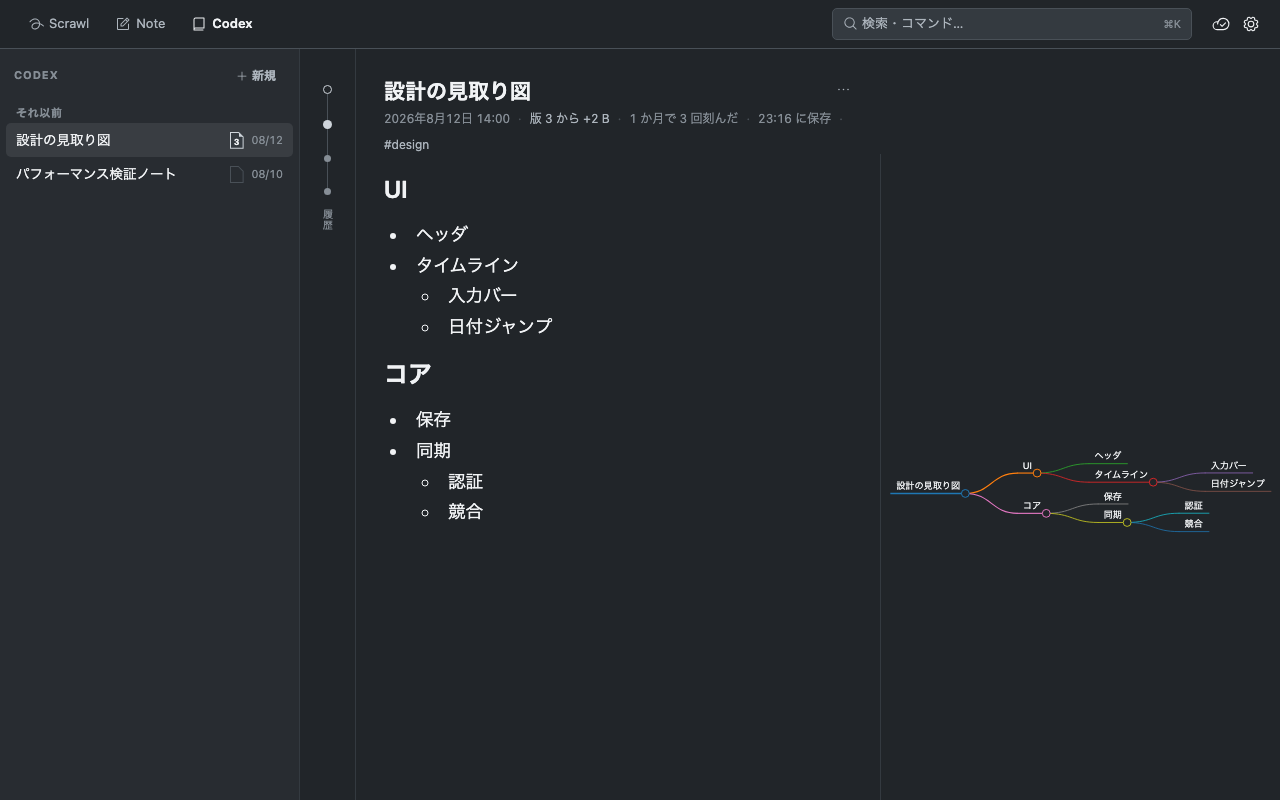
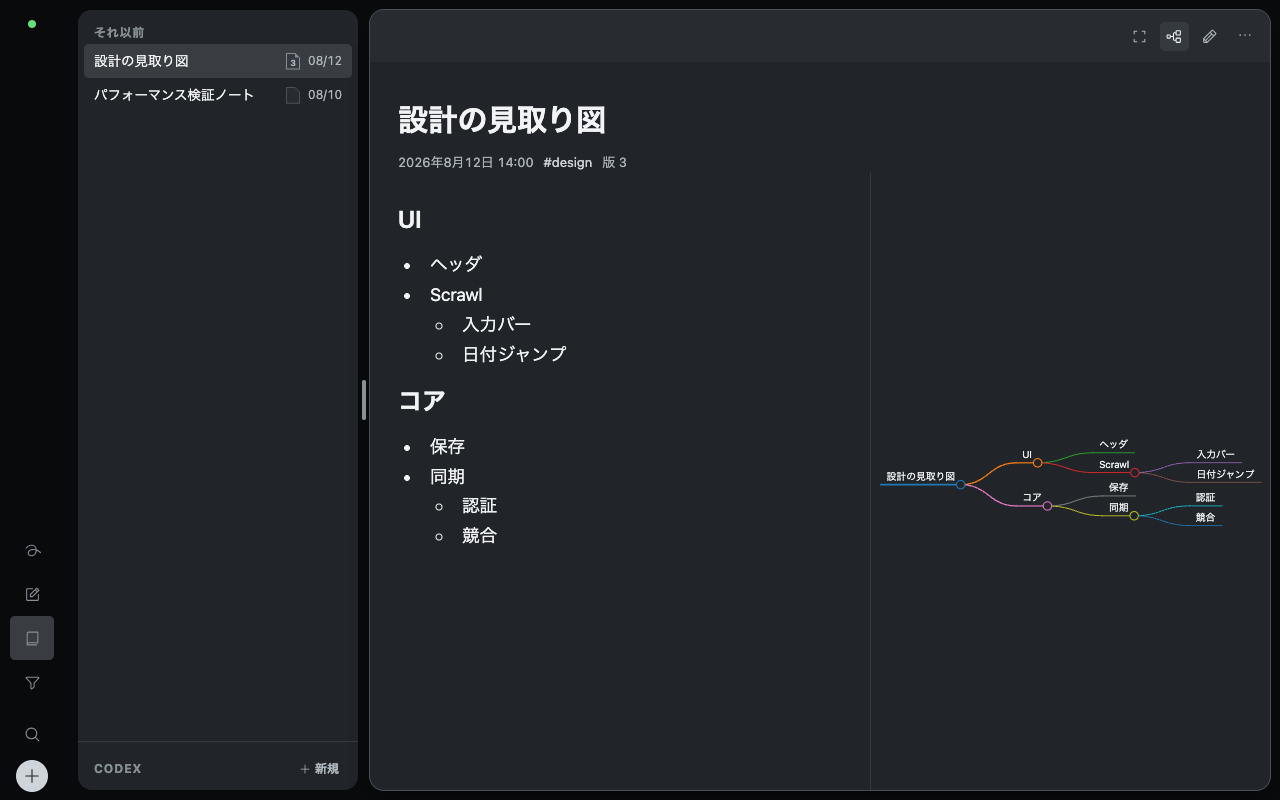
docs: retake the screenshots and describe the app as it stands
The seven pictures under docs/images/ dated from 18 September and still
showed the header of tabs that 6615a78 removed. 180c0e7 rewrote the feature
tour's words for the rail, the pill and the ring and said the pictures had
to be retaken; this does that before the next tag, along with the README,
whose feature list had stopped at the one-column UI of 2 November ("no rail
and no tabs", a status dot in the lower right).

Retaken from `BROWSER_MOCK=1 vite` at the sizes they had (1280x800, 390x844
for the phone), dark theme, locale pinned to ja. timeline.png and
mobile-timeline.png become scrawl.png and mobile-scrawl.png: the surface has
had no other name since the rename. Six are new, for what the tour described
without showing: the ring, the note panel, a Codex's history, Browse, the
search field and a note on a phone.

Taking them showed where the words had drifted from the screen. Each of
these was checked by pressing it in the harness:

- the backlinks are under ここを指す記録 and do not fold
- a link pressed while reading shows its record beside the page first
- the status on the rail is a dot whose words show on hover and focus
- the search field opens on kind and period chips; a tag is typed, or
  handed over by Scrawl
- the table button is on the format bar at the foot, not above the body
- Codex にする and delete are a held press, not a confirmation
- the restore button reads 版 N に戻す, and the single-template widget is
  テンプレートのボタン
[…]

Changed region(s): [[0.0, 0.0, 1.0, 1.0], [0.6875, 0.5938, 0.7812, 0.625], [0.5938, 0.125, 0.6562, 0.1562]]

diff --git a/docs/features.md b/docs/features.md
@@ -1,7 +1,31 @@
 # Feature Tour
 
 A walkthrough of every surface in Magical Merchant. Screenshots are taken
-from the browser verification harness with fixture data.
+from the browser verification harness with fixture data, in the dark theme
+and in Japanese.
+
+## Getting around
+
+A wide window (768px and up) has a 64px **rail** of icons at its left edge.
+At its top is the status, one dot; at its foot are the four places — Scrawl,
+Note, Codex, 絞る — then the search and a +. The rail never folds or opens
+out: a name shows beside its icon on hover and focus, and the status says
+itself in words the same way. A phone has no rail and no header; its places
+are on a pill at the foot (see [Mobile](#mobile)).
+
+Every list reads the same way, newest first from the top: Scrawl, the Note
+and Codex lists, Browse's records and the search field's results.
+
+### The ring — one way to make a record
+
+Pressing a + — the rail's, or a list's own — or holding the phone's pill
+opens a fan of labelled pills out of it: a line to Scrawl
+(ここに書く on Scrawl itself, where the field is right there, Scrawl に 1 行
+anywhere else), Note を作る, Codex を作る, テンプレートから. Slide onto one and
+let go, or let go first and tap. It is the one way to make a record from
+anywhere, and the choices keep their order whichever control opened it.
+
+![The ring, opened from the rail's +](images/ring.png)
 
 ## Scrawl — a journal that captures first
 
@@ -18,33 +42,61 @@ through them, and the line's `/` menu (探す · Note を作る · 日付へ)
 reaches the same places without leaving the keyboard — it answers to those
 row names only, so `/tmp` stays a record.
 
-![Scrawl](images/timeline.png)
+![Scrawl](images/scrawl.png)
 
 In the same band, a **weekly digest** appears once per week: one line saying
 how many entries on how many days and — when that day has entries — a jump to
 _one year ago today_. Dismissing it hides it for the rest of the week, per
 device.
 
+Records are read-only: an entry can be copied, deleted, or grown into a Note,
+but never rewritten. Notes and Codexes sit among the entries of the day they
+were made, as a filled dot and a bold title — unless the chip under the entry
+they grew from already leads to them.
+
 ### Mobile
 
 The same journal on a phone. There is no header: everything pressed is at the
 foot, under the thumb. A pill at the lower left holds the three places —
-Scrawl, Note, Codex — and on Scrawl it stretches to hold the input field; the
-band of tags sits just over it, and the status is one dot in the top right
-corner. The other screens (絞る, 設定, テンプレート) are reached through the empty
-search field. Reading down folds the pill to a single line so the page has the
-screen.
+Scrawl, Note, Codex — always at the same spot, and on Scrawl it stretches to
+hold the input field; the band of tags sits just over it, and the status is
+one dot in the top right corner. At the lower right is the page's one round
+button: + on a list, the pencil on a note with `…` for the note's sheet
+beside it. On a level — an open note, a Settings page — a round back button
+stands after the pill. The other screens (絞る, 設定, テンプレート) are reached
+through the empty search field. Reading down folds the bar to a single line
+so the page has the screen.
 
-![Scrawl on a phone](images/mobile-timeline.png)
+![Scrawl on a phone](images/mobile-scrawl.png)
+![A note on a phone](images/mobile-note.png)
+
+Strokes do what the buttons do: one to the right goes a level back, one to
+the left opens a row's actions, and one up on the bar raises the note's
+sheet; Android's back peels the same layers. Every stroke has a visible
+control that does the same, so none of them has to be found by accident.
 
 ### Promote an entry into a note
 
 When a quick capture grows into something bigger, promote it: hover an entry
-(PC) or long-press it (touch) and choose Note にする. A new note opens ready
-to write, carrying the entry text and tags. The note's frontmatter records the
-origin entry, and Scrawl shows a chip (📄 title →) on that day linking
-to the note — derived on every render, so reordering or deleting entries never
-breaks the link.
+(PC), or long-press it or stroke it to the left (touch), and choose
+Note にする. The app asks first, and the record stays in Scrawl as it was. A
+new note opens ready to write, carrying the entry text and tags. The note's
+frontmatter records the origin entry, and Scrawl shows a chip (📄 title →)
+under that entry linking to the note — derived on every render, so reordering
+or deleting entries never breaks the link.
+
+### A line from outside the app
+
+Capture does not need the window. On the desktop, `⌘⇧Space` (Ctrl+Shift+Space
+on anything that is not a Mac) floats a small field over whatever app is in
+front; the same key sends the line, and Esc hides the field and keeps the
+draft. A `magical-merchant://scrawl?text=…` link writes the line with no
+window at all, which is what a Shortcut run from Spotlight opens. On Android
+the launcher icon held down offers Scrawl に 1 行 and 新しい Note, and Share
+hands text from another app to Scrawl; the line and the shared text both go
+through the sheet the capture widget opens, without starting the app. The key
+and the link are shown, and can be tried, in Settings → 記録 under
+アプリの外から.
 
 ## Note — a Typora-style Markdown workspace
 
@@ -71,15 +123,21 @@ to.
 Note-level settings and actions live in a **panel at the right edge**,
 because none of it is used often enough to sit in the way of writing. The
 `…` in the viewer's strip, or `⌘.`, docks it so the body makes room; the
-writing screen has no way into it. It holds the view switches (マップ, and
-記入例 for a note from a template), the tags, the note's details, and the
-rare actions: revert, Codex にする (behind a confirmation, since there is no
-way back), delete. While it is closed the **status** wears the save and the
-sync — green, grey, red — in words at the top of the rail on a wide window,
-as one dot in the top right corner on a phone. Pressing it says what the
-panel would: the save time, and every state that is on — press one to open
-the panel on its switch. On a phone the panel is a sheet that rises from the
-foot.
+writing screen has no way into it. It holds the tags, the view switches
+(マップ, 紙だけ, and 記入例 for a note from a template), the note's details,
+and the rare actions: revert, Codex にする and delete — the last two a held
+press rather than a click, so neither happens by accident. 紙だけ leaves the
+page alone on the screen, without the rail, the list or the strip, until
+操作を戻す brings them back. On a phone the panel is a sheet that rises from
+the foot.
+
+![The note panel docked beside a note](images/note-panel.png)
+
+While the panel is closed the **status** wears the save and the sync — green,
+grey, red — as one dot: at the top of the rail on a wide window, where it
+says itself in words on hover and focus, and in the top right corner on a
+phone. Pressing it says what the panel would: the save time, and every state
+that is on — press one to open the panel on its switch.
 
 Tags are edited in the panel: chips, with the tags you have used before
 offered as you type. The meta line in the viewer only shows them. A `#tag`
@@ -98,10 +156,13 @@ page and is written only after you ask. A frontmatter `view: preview` left by
 an older release stays in the file and now means nothing more than the
 default.
 
-![Editor with Note links](images/editor-links.png)
+![The writing screen, with its format bar at the foot](images/editor-links.png)
 
-The table button above the body inserts a table at the cursor. Selecting a
-cell moves the button beside its row; opening the menu highlights the target
+The writing screen's **format bar** floats at the foot of the page, over the
+keyboard on a phone: lists, a checklist, indent and outdent, a link to a
+record, a code block, a table, and the check that goes back to the viewer.
+Its table button inserts a table at the cursor. Inside a table a button
+stands beside the selected row; opening its menu highlights the target
 row and column, including when inserting in the middle of a table. Inside a
 cell, the same menu adds or deletes rows and columns, aligns a column,
 exits the table, or deletes it. Undo is available in the menu on phones as
@@ -132,19 +193,21 @@ The map itself is the same on either surface, Note or Codex.
 
 Type `[[` in the editor and an autocomplete popup offers your notes. The
 stored form is `[[YYYYMMDD_HHMMSS]]` — the filename is an immutable ID, so
-links survive title changes. The editor and preview render links as the
-target's current title; click one to open the note. Write
+links survive title changes. The editor and the viewer render links as the
+target's current title. Pressing one while reading does not leave the page:
+the record it points to is shown beside it — lifted over it on a phone — with
+開く to go there. Write
 `[[YYYYMMDD_HHMMSS|display text]]` when the title does not fit the sentence —
 the link still points at the same note. A link whose target is gone stays
 visible as its raw stored form rather than pretending to be a note.
 
-![Resolved Note links](images/note-links.png)
+![A pressed link shows the record it points to](images/note-links.png)
 
 Every note shows the records that link to it — other notes and Scrawl
-entries alike — in a collapsible リンクされている記録 footer. Backlinks are
+entries alike — under ここを指す記録 at the end of the page. Backlinks are
 derived by scanning at read time; there is no index to corrupt or sync.
 
-![Backlinks](images/backlinks.png)
+![The records that point at a note](images/backlinks.png)
 
 ## Codex — a Note that keeps growing
 
@@ -190,9 +253,12 @@ draft appears in its margin: a `+` beside every block that changed, a `−`
 beside every block that is gone — struck through and faint, in the place it
 used to occupy. Walk the versions in the list and the marks move with them;
 `Esc` closes the history. On a phone the history is the panel screen's second
-tab and a compare bar sits under the body. この版に戻す makes that version
-the draft again, and the draft you are leaving is committed first as
-_before restore_, so a restore is itself undoable from the same list.
+tab and a compare bar sits under the body. 版 N に戻す, under the version you
+picked, makes that version the draft again, and the draft you are leaving is
+committed first as _before restore_, so a restore is itself undoable from the
+same list.
+
+![A Codex's history: the draft compared with its first version](images/codex-history.png)
 
 On disk a version is
 `data/codex/<id>/<YYYYMMDD_HHMMSS>-<first 8 hex of the body's SHA-256>.md`:
@@ -218,7 +284,7 @@ are part of the document and sync with it.
 
 Some things have no character: fighting-game command notation, a custom
 mark, a logo. Register a small PNG or SVG under a short name in
-Settings → GLYPHS and write `:name:` anywhere — a Note or a Scrawl entry —
+Settings → 記録 → 特殊文字 and write `:name:` anywhere — a Note or a Scrawl entry —
 to show it inline, the way an emoji shortcode works. The preview, the
 editor and Scrawl all render it; the editor shows the source text
 again when the caret touches it, so the stored Markdown stays plain text.
@@ -237,11 +303,15 @@ straight into `data/glyphs/` are picked up as well.
 
 `⌘K` opens the search field. It is hidden until called and floats over
 whatever you were on, so an open note stays where it was; Esc gives the keys
-back. Before you type anything it shows the kind / tag / period chips and the
-newest records, so it can be browsed by hand. Typing on Scrawl or Browse opens
-it too, as does `/ 探す` on Scrawl's input line. Results highlight the matched
-text in a context snippet, and the only thing a result does is open — a note
-opens that note, a Scrawl hit scrolls to that day; Enter takes the first.
+back. The field itself lies at the foot, with its kind and period chips just
+over it. Before you type anything it lists the places and the newest records
+above them, so it can be browsed by hand. Typing on Scrawl or Browse opens
+it too, as does `/ 探す` on Scrawl's input line and the magnifier on the rail.
+Results highlight the matched text in a context snippet, and the only thing a
+result does is open — a note opens that note, a Scrawl hit scrolls to that
+day; Enter takes the first.
+
+![The search field before anything is typed](images/search.png)
 
 Searches can be scoped to tags, from any screen. Every `#tag` you type counts
 as scope rather than text: `#SF6 #ベガ #置き攻め` lists every note and entry
@@ -251,8 +321,8 @@ are the same tag. Pressing a tag chip on Scrawl opens the field with that
 chip already set; a chip is removed by clicking it, or with Backspace in an
 empty field (last chip first). A bare word also answers with the app's
 commands above the records, and the empty field lists the places — Scrawl ·
-Note · Codex · 絞る · 設定 — which is how the other screens are reached on a
-phone.
+Note · Codex · 絞る · 設定 · テンプレート — which is how the other screens are
+reached on a phone.
 
 ## Browse
 
@@ -264,6 +334,8 @@ once (OR, where the search field is AND). The matching records list newest
 first, and the one selected is shown in full on the right. **It has no text
 search** — typing on it opens the search field. Every row leads back to the
 surface the record lives on; a phone drops the preview column.
+
+![Browse, narrowed to Notes and Codexes](images/browse.png)
 
 ## Command palette
 
@@ -320,15 +392,16 @@ so a key that is written in two places cannot come to mean two things.
 ## Language
 
 The interface speaks Japanese or English. It follows the system language on
-first launch and can be pinned either way in Settings → LANGUAGE; the choice
+first launch and can be pinned either way in Settings → 一般 → 言語; the choice
 takes effect immediately, without a restart. Place names follow it too: the
 OS geocoder is asked in the chosen language, and the cache remembers which
 language each answer came from. Only the interface changes — what you wrote
 stays exactly as you wrote it, and so do your tags and the coordinates behind
 those place names.
 
-On macOS, Settings → WINDOW adds _Start in fullscreen_: the app opens in the
-native fullscreen (its own Space, like the green button) from the next launch.
+The same page holds the theme — system, light or dark — and, on macOS,
+起動時に全画面: the app opens in the native fullscreen (its own Space, like
+the green button) from the next launch.
 
 ## Sync (optional)
 
@@ -341,16 +414,19 @@ change-detection protocol.
 
 Five home-screen widgets ship with the APK:
 
-| Widget            | Size      | What a tap does                                                                                                              |
-| ----------------- | --------- | ---------------------------------------------------------------------------------------------------------------------------- |
-| Scrawl に記録     | 4×1       | Opens a sheet over the home screen and appends to today's Scrawl through a JNI call into the core — the app is never started |
-| 新しい Note       | 4×1       | `magical-merchant://widget/new-note`                                                                                         |
-| 最近の Note       | 4×2       | The four newest notes; a row opens that note, the header plus makes a new one                                                |
-| テンプレート      | 4×2       | A grid of four templates; a cell creates a new note from it                                                                  |
-| テンプレート 1 つ | 2×1 / 1×1 | One template chosen when the widget is placed; a tap creates today's note from it                                            |
+| Widget               | Size      | What a tap does                                                                                                              |
+| -------------------- | --------- | ---------------------------------------------------------------------------------------------------------------------------- |
+| Scrawl に記録        | 4×1       | Opens a sheet over the home screen and appends to today's Scrawl through a JNI call into the core — the app is never started |
+| 新しい Note          | 4×1       | `magical-merchant://widget/new-note`                                                                                         |
+| 最近の Note          | 4×2       | The four newest notes; a row opens that note, the header plus makes a new one                                                |
+| テンプレート         | 4×2       | A grid of four templates; a cell creates a new note from it                                                                  |
+| テンプレートのボタン | 2×1 / 1×1 | One template chosen when the widget is placed; a tap creates today's note from it                                            |
 
 All five are deep links into the app except the capture bar, which is the one
-that exists so that recording costs nothing — no launch, no wait.
+that exists so that recording costs nothing — no launch, no wait. The same
+sheet answers Scrawl に 1 行 in the launcher icon's long-press menu and Share
+from another app (see
+[A line from outside the app](#a-line-from-outside-the-app)).
 
 ## Terminal (CLI)
 

diff --git a/README.md b/README.md
@@ -5,13 +5,19 @@
   <a href="LICENSE"><img src="https://img.shields.io/badge/license-MIT-blue.svg" alt="MIT License"></a>
 </div>
 
-![Scrawl](docs/images/timeline.png)
+![Scrawl](docs/images/scrawl.png)
+
+<p align="center">
+  <img src="docs/images/mobile-scrawl.png" width="260" alt="Scrawl on a phone">
+  <img src="docs/images/mobile-note.png" width="260" alt="A note on a phone">
+</p>
 
 ## Features
 
-- **Scrawl** (formerly Timeline) — a day-grouped capture journal with tags, device/place
-  context, a calendar jump, and a weekly digest (including _one year ago
-  today_)
+- **Scrawl** (formerly Timeline) — a day-grouped capture journal that reads
+  newest first, with its input field always at the foot: tags, device/place
+  context, a calendar jump, a thumb that scrubs through the days, and a
+  weekly digest (including _one year ago today_)
 - **Note** (formerly Notes) — Markdown files that open as a rendered page
   and switch to a Typora-style Milkdown editor on Enter, `e` or a double
   click. A title field that is the body's own `# heading`, autosave with a
@@ -24,22 +30,34 @@
   with everything else
 - **`[[links]]` and backlinks** — link notes by immutable file ID with
   autocomplete, optionally with `|display text`; every note lists the records
-  that point at it
-- **One column, no chrome** — no rail and no tabs. The way around is the
-  keys (`⌘1` / `⌘2` / `⌘3`, `⌘K`, `⌘F`, `⌘,`), the places the empty search
-  field lists, and a status dot in the window's lower right that carries the
-  save and the sync and opens on the open note's details
-- **`⌘K` search field** — hidden until called; it opens on kind / tag /
-  period chips and the newest records, then searches the full text with
-  highlighted matches and lands exactly on the note or the day. **Browse**
-  (`⌘F`) narrows across the three surfaces by kind, tag and period, for the
-  record whose words you cannot recall
+  that point at it, and a link pressed while reading shows the record it
+  points to before going there
+- **Everything pressed is where the hand is** — a wide window has a 64px
+  rail of icons at its left edge: the status at its top, and at its foot the
+  four places (Scrawl · Note · Codex · 絞る), the search and a +. A phone has
+  no header at all: a pill at the lower left holds the three places (and, on
+  Scrawl, the input field), the page's one round button is at the lower
+  right, and a stroke goes back, opens a row's actions or raises the note's
+  sheet — each with a visible control that does the same
+- **One + makes every record** — pressing a + (or holding the phone's pill)
+  opens a fan of labelled pills: a line to Scrawl, a Note, a Codex, or one
+  from a template
+- **A line from outside the app** — on the desktop `⌘⇧Space` floats a small
+  field over whatever app is in front, and a `magical-merchant://scrawl?text=…`
+  link writes a line with no window at all; on Android the launcher icon's
+  long-press menu and Share lead to the same sheet the capture widget opens
+- **`⌘K` search field** — hidden until called; it opens on the places, the
+  kind and period chips and the newest records, then searches the full text
+  with highlighted matches and lands exactly on the note or the day.
+  **Browse** (`⌘F`) narrows across the three surfaces by kind, tag and
+  period, for the record whose words you cannot recall
 - **Keys you are shown, not told** — hold ⌘ and a badge floats on every
-  visible control whose key works right now: the status dot, 新規 and the
-  list's pin, the note panel's `…` and its 履歴 tab. `?` opens the palette on
-  its command list — the seven global commands, and only those. The
-  note-scoped keys the panel has a row for are printed beside those rows;
-  `⌘↑` / `⌘↓`, which step through the list, are printed nowhere
+  visible control whose key works right now: the rail's places and its
+  search, the status, the list's grip, 新規, the note panel's `…` and its 履歴
+  tab. `?` opens the palette on its command list — the nine global commands,
+  and only those. The note-scoped keys the panel has a row for are printed
+  beside those rows; `⌘↑` / `⌘↓`, which step through the list, are printed
+  nowhere
 - **Optional sync** — Cloudflare Workers + R2, conflict-safe, with Android
   home-screen widgets and an MCP server for AI assistants — read-only unless
   you start it with `--allow-write`
@@ -91,11 +109,13 @@ Cloudflare Workers + R2 sync (`workers/`) · Nix flake for dev/CI/packaging.
 ```
 magical-merchant/
 ├── core/           # Rust core library (framework-independent business logic)
-├── cli/        # Terminal client ($EDITOR editing) + MCP server
+├── cli/            # Terminal client ($EDITOR editing) + MCP server
 ├── tauri-app/
 │   ├── src/        # SolidJS frontend (TypeScript)
 │   └── src-tauri/  # Tauri 2 backend (Rust)
 ├── workers/        # Cloudflare Workers (R2 sync backend)
+├── fixtures/       # Sample data: one of every surface, read by the core's tests
+├── xtask/          # `cargo xtask sandbox …`, the app over a copy of fixtures/
 ├── docs/           # Documentation
 ├── rust/           # Shared Rust just recipes
 └── nix/            # Nix configuration helpers

diff --git a/docs/introduction.md b/docs/introduction.md
@@ -98,7 +98,7 @@ never see the on-disk compression.
 ```mermaid
 flowchart TD
     App["App.tsx (Router)"]
-    Layout["AppLayout<br/>mobile header, search field, status dot, palette, sync state"]
+    Layout["AppLayout<br/>rail (wide) / place pill (phone), search field, status, ring, palette, sync state"]
     Scrawl["Scrawl (eager — launch view)"]
     Workspace["Workspace (lazy)<br/>serves /notes and /codex"]
     Browse["Browse (lazy)"]
